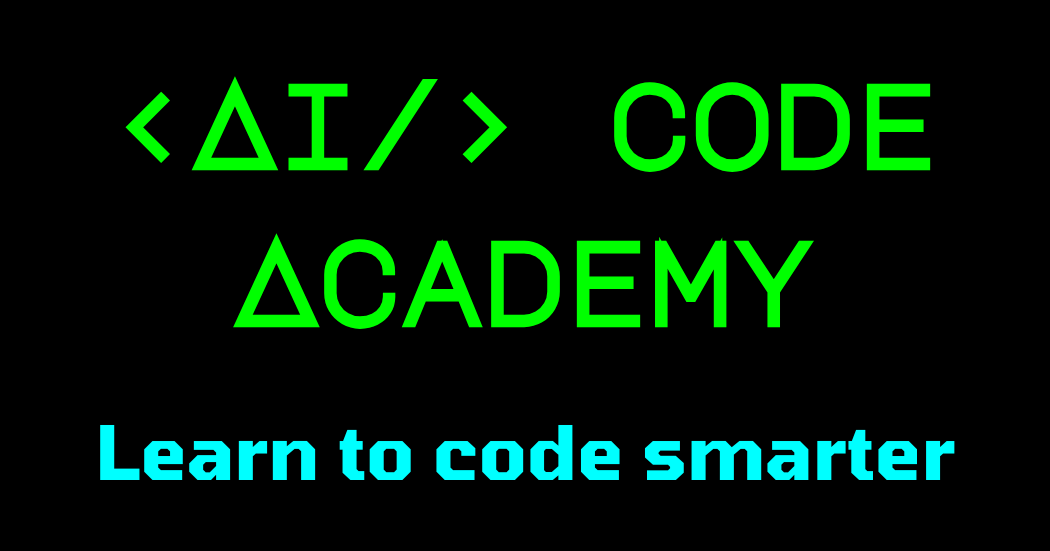
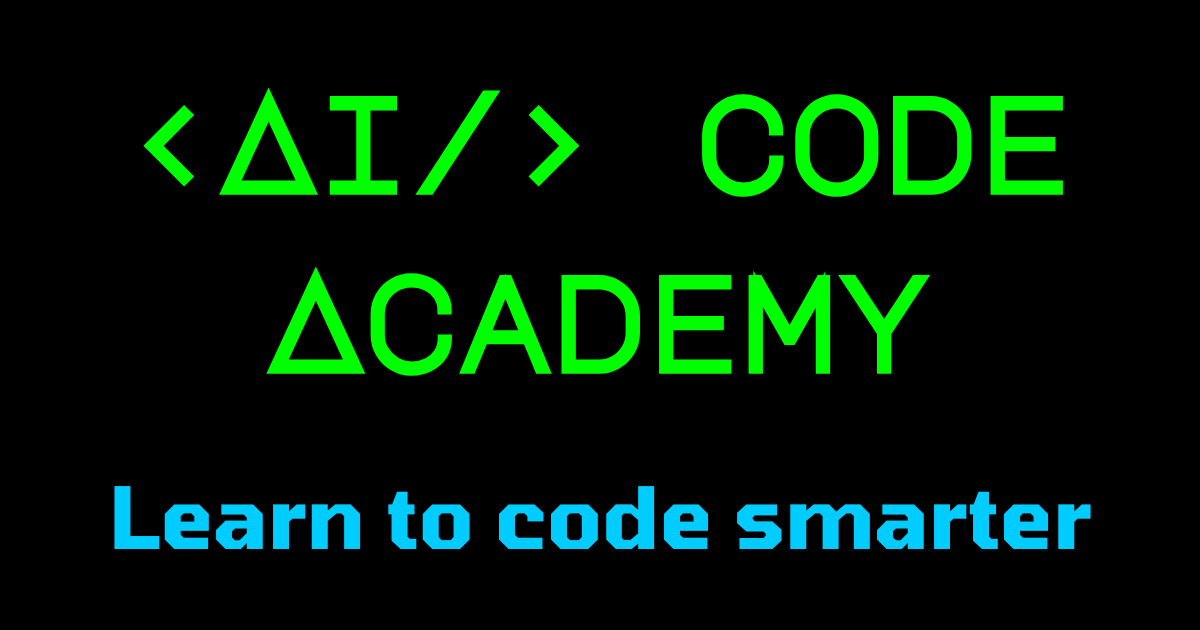
update: color palette and branding assets
- Refine color variables with precise hex values
- Update logo and site open graph image
- Maintain consistent color theme approach

diff --git a/src/styles/colors.css b/src/styles/colors.css
@@ -1,8 +1,8 @@
 :root {
-  --light-green: LimeGreen;
-  --dark-green: SeaGreen;
-  --light-blue: Cyan;
-  --dark-blue: DodgerBlue;
+  --light-green: #00ff00;
+  --dark-green: #00aa00;
+  --light-blue: #00ccff;
+  --dark-blue: #007fff;
 }
 
 /* dark theme */
